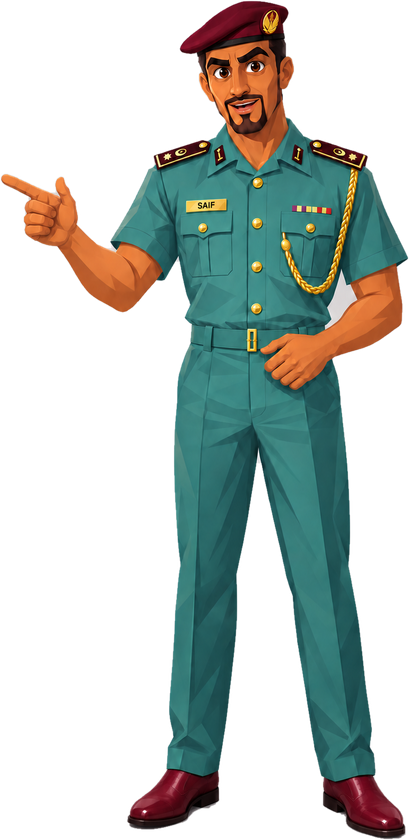
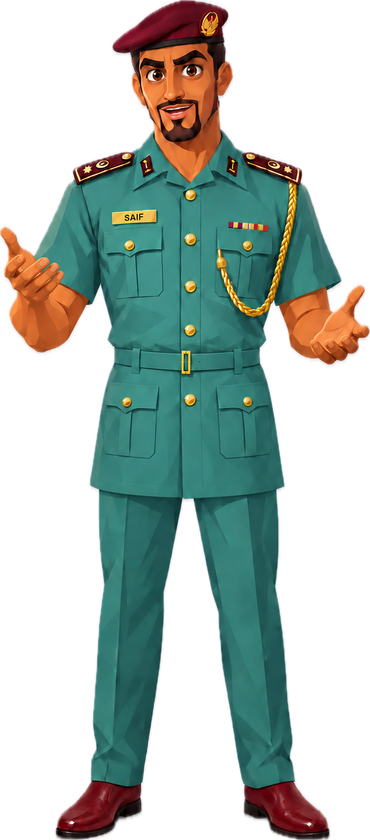
Briefing v2: new Saif field-uniform set, right-side stance, bottom dialogue
Five transparent poses replace the six-pose set (saif-6 removed). Visual-
novel composition per client: HQ building fully visible, Saif stands on
the right (sized to clear the Arabic signage in both orientations,
landscape nudged past the sign), dialogue box along the bottom with the
tail pointing up at him. Codex adversarial review: one lead (boot tuck
under bubble) verified as intentional.

diff --git a/src/app/play/page.tsx b/src/app/play/page.tsx
@@ -171,7 +171,7 @@ export default function Play() {
   useEffect(() => {
     if (phase !== 'brief') return;
     // حمّل الوقفات مسبقاً
-    for (let i = 1; i <= 6; i++) {
+    for (let i = 1; i <= 5; i++) {
       const img = new window.Image();
       img.src = `/art/saif-${i}.png`;
     }
@@ -183,7 +183,7 @@ export default function Play() {
   }, [phase, briefWords, briefDone]);
   useEffect(() => {
     if (phase !== 'brief' || briefDone) return;
-    const speaking = [1, 2, 4, 3, 5];
+    const speaking = [4, 3, 2, 1, 5];
     const t = setInterval(() => {
       setBriefPose((p_) => speaking[(speaking.indexOf(p_) + 1) % speaking.length] ?? 2);
     }, 1200);
@@ -340,8 +340,24 @@ export default function Play() {
             if (!briefDone) setBriefWords(briefTotal);
           }}
         >
-          {/* فقاعة الحديث */}
-          <div className="relative mt-2">
+          {/* مساحة حرة تكشف مبنى القيادة كاملاً */}
+          <div className="flex-1" />
+
+          {/* سيف على يمين الشاشة */}
+          <div className="pointer-events-none relative z-0 -mb-6 flex [direction:ltr] justify-end pe-1 landscape:-me-28 sm:pe-8">
+            {/* eslint-disable-next-line @next/next/no-img-element */}
+            <img
+              key={briefDone ? 3 : briefPose}
+              src={`/art/saif-${briefDone ? 3 : briefPose}.png`}
+              alt={s.briefName}
+              className="anim-in w-auto select-none portrait:h-[min(31dvh,300px)] landscape:h-[min(44dvh,410px)]"
+              draggable={false}
+              style={{ filter: 'drop-shadow(0 14px 18px rgba(30, 50, 80, 0.3))' }}
+            />
+          </div>
+
+          {/* صندوق الحوار أسفل الشاشة */}
+          <div className="relative z-10">
             <div
               className="rounded-3xl px-4 py-3 sm:px-5 sm:py-4"
               style={{ background: '#ffffff', border: '2px solid var(--line)', boxShadow: 'var(--shadow)' }}
@@ -366,22 +382,10 @@ export default function Play() {
                 </p>
               )}
             </div>
+            {/* ذيل يشير لأعلى نحو سيف */}
             <span
-              className="absolute -bottom-[10px] start-1/2 h-5 w-5 -translate-x-1/2 rotate-45"
-              style={{ background: '#fff', borderInlineEnd: '2px solid var(--line)', borderBottom: '2px solid var(--line)' }}
-            />
-          </div>
-
-          {/* الضابط — رأسه تحت ذيل الفقاعة مباشرة ليخرج الكلام من فمه */}
-          <div className="relative -mt-2 flex flex-1 items-end justify-center">
-            {/* eslint-disable-next-line @next/next/no-img-element */}
-            <img
-              key={briefDone ? 6 : briefPose}
-              src={`/art/saif-${briefDone ? 6 : briefPose}.png`}
-              alt={s.briefName}
-              className="anim-in w-auto select-none portrait:h-[min(36dvh,340px)] landscape:h-[min(46dvh,430px)]"
-              draggable={false}
-              style={{ filter: 'drop-shadow(0 14px 18px rgba(30, 50, 80, 0.3))' }}
+              className="absolute -top-[10px] right-16 h-5 w-5 rotate-45 sm:right-24"
+              style={{ background: '#fff', borderTop: '2px solid var(--line)', borderLeft: '2px solid var(--line)' }}
             />
           </div>
 
